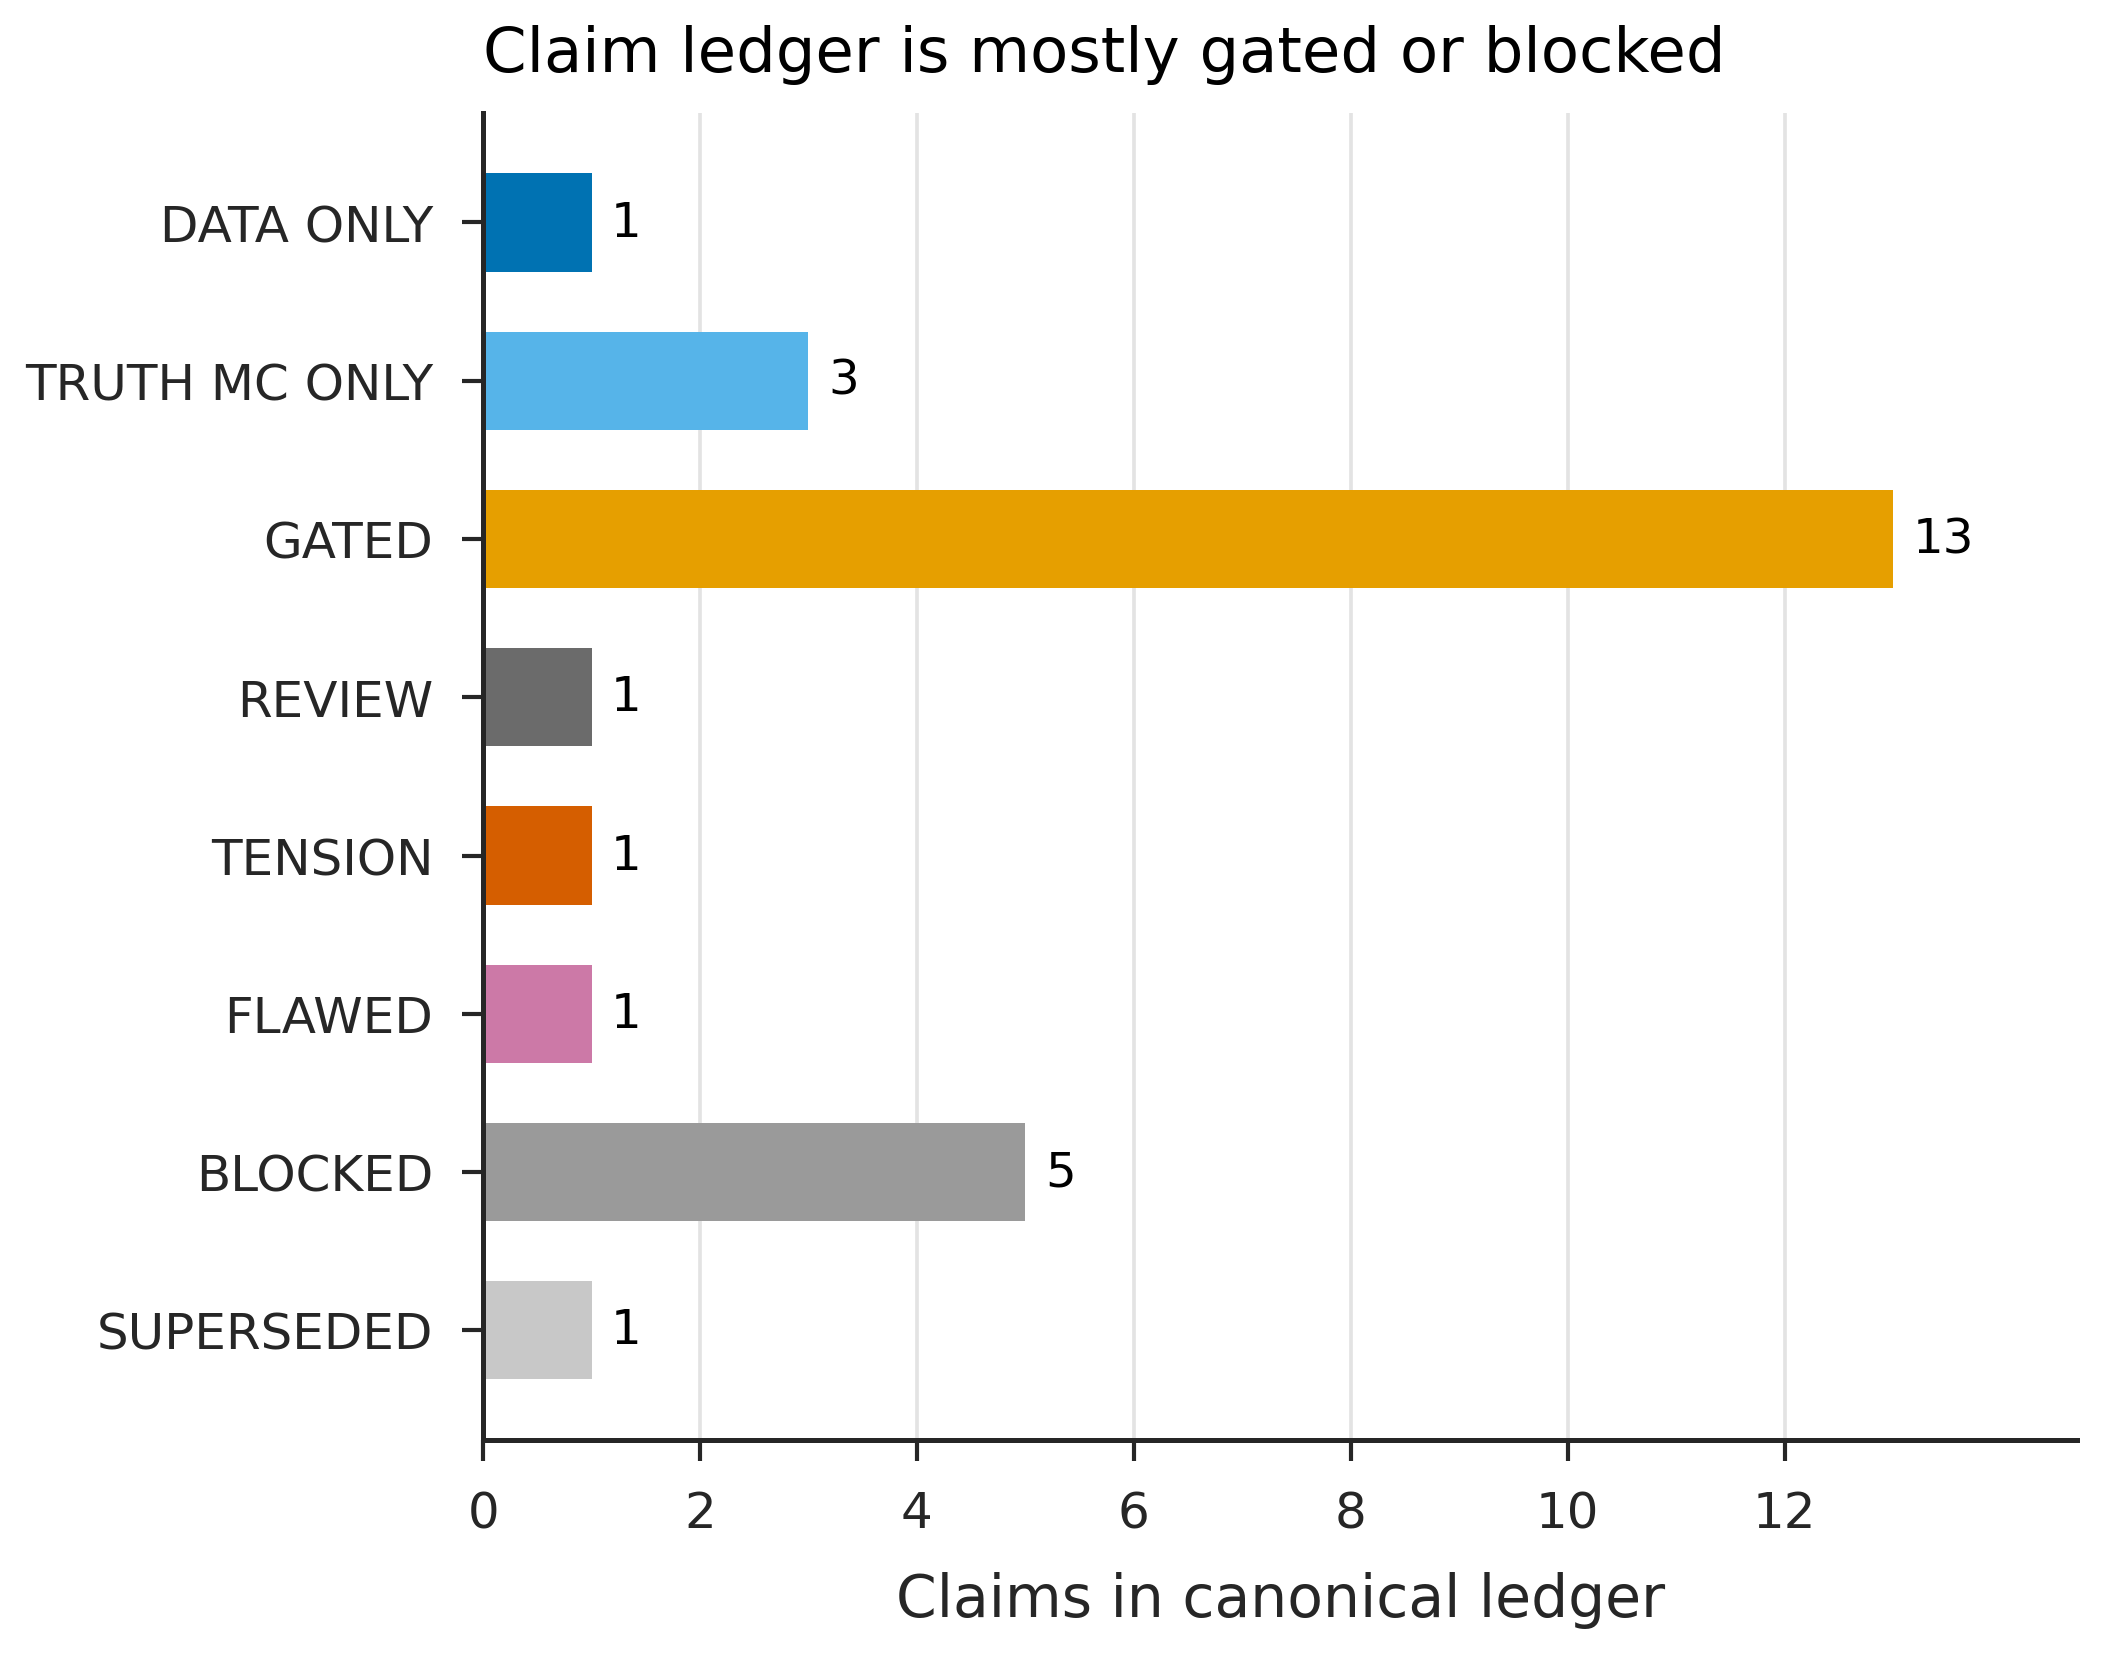
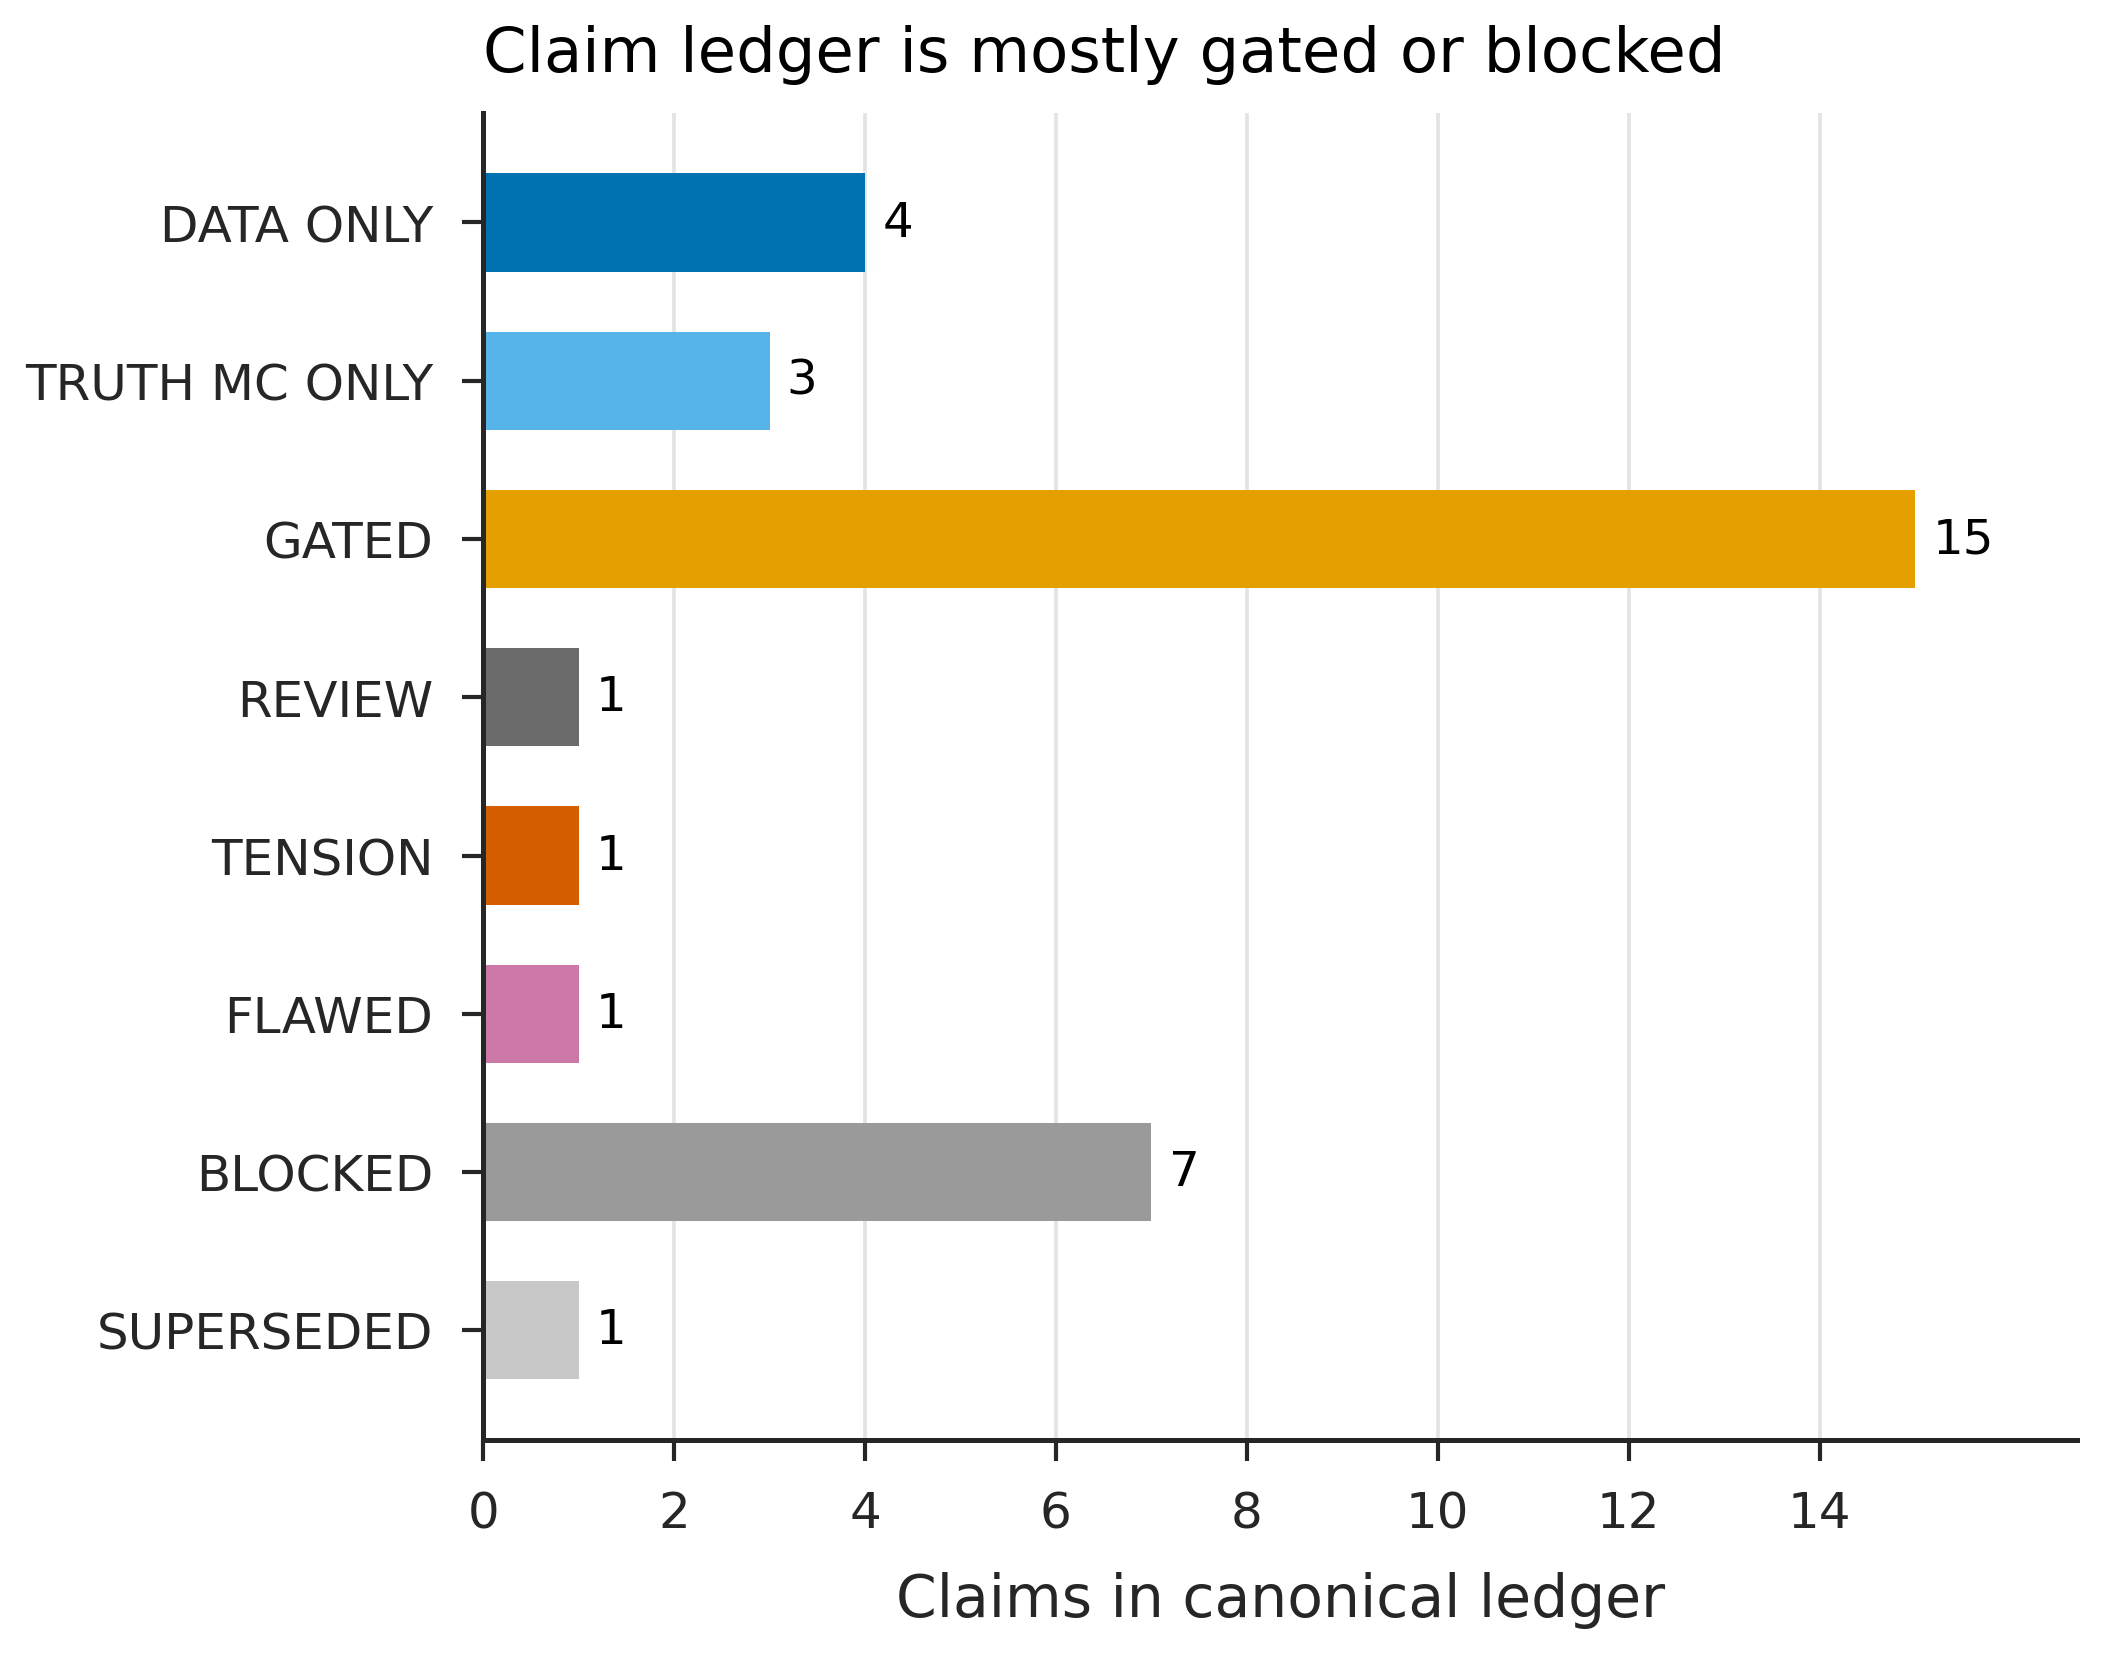
chore(plots): regenerate wiki figures after claim ledger renumber
Updates claim_status_overview and wiki manifest for CL-029–CL-033 layout.

diff --git a/wiki/Figure-Gallery.md b/wiki/Figure-Gallery.md
@@ -133,15 +133,3 @@ Fixed synthetic-waveform MC output: three components explain 72.5% and eight exp
 Dimensionless cluster-D ADC-response elasticities only. Mixed-unit rows (gain envelope, kB span and missing material) are excluded rather than combined. This is a sensitivity inventory, not a propagated uncertainty budget.
 
 [PDF](https://raw.githubusercontent.com/SzeChunYiu/ccb-testbeam/main/docs/figures/paper/systematic_sensitivity_inputs.pdf) · [SVG](https://raw.githubusercontent.com/SzeChunYiu/ccb-testbeam/main/docs/figures/paper/systematic_sensitivity_inputs.svg) · [source CSV](https://raw.githubusercontent.com/SzeChunYiu/ccb-testbeam/main/docs/figures/paper/source_tables/systematic_sensitivity_inputs_source.csv)
-
-## Manuscript Figure 11 — Held-out deposited-energy reconstruction
-
-**Question:** After freezing a pooled PE→Edep calibration on training grid points, what are the held-out bias and σ68 versus true Geant4 deposited energy?
-
-![Held-out deposited-energy reconstruction](https://raw.githubusercontent.com/SzeChunYiu/ccb-testbeam/main/docs/figures/paper/edep_reconstruction_heldout.png)
-
-**Status:** `MC_MODEL_DEPENDENT` · **Evidence:** `MC_MODEL_DEPENDENT` · **Claim:** `CL-027` · **Issue:** `#1297`
-
-Held-out evaluation on SHA-256-bound optical MC (`deuteron_110`, `proton_60`; n=400) after training on `deuteron_70`, `proton_100`, `proton_140`. Pooled median bias +10.1%, σ68 8.9%, RMS 17.8%, tail fraction 15% (|r|>0.20). Target is Geant4 E_dep, not incident kinetic energy; not a beam-data calibration. Optical/SiPM nuisance envelope remains `NOT_EVALUATED`.
-
-[PDF](https://raw.githubusercontent.com/SzeChunYiu/ccb-testbeam/main/docs/figures/paper/edep_reconstruction_heldout.pdf) · [source CSV](https://raw.githubusercontent.com/SzeChunYiu/ccb-testbeam/main/docs/figures/paper/source_tables/edep_reconstruction_heldout_source.csv) · [result JSON](https://raw.githubusercontent.com/SzeChunYiu/ccb-testbeam/main/reports/paper_a09_heldout_edep_reconstruction/result.json)
